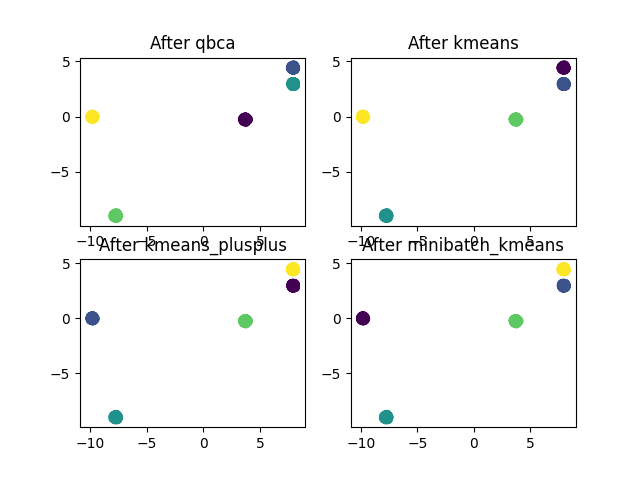
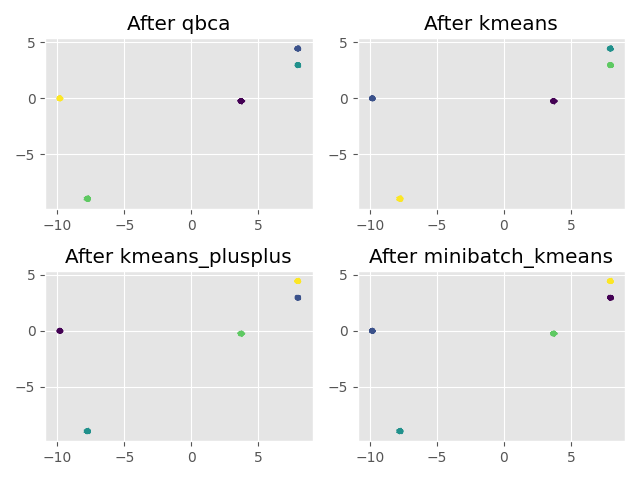
Implement image segmentation test

diff --git a/source/test_utils.py b/source/test_utils.py
@@ -1,11 +1,13 @@
 import os
 import time
 
+import cv2
 import numpy as np
 import pandas as pd
 from matplotlib import pyplot as plt
 from sklearn.cluster import KMeans, MiniBatchKMeans
 from sklearn.datasets import make_blobs
+from sklearn.decomposition import PCA
 from sklearn.metrics import (
     adjusted_mutual_info_score,
     adjusted_rand_score,
@@ -20,9 +22,15 @@ from source.utils import dunn_index
 N_SAMPLES = 10000
 SEED = 2022
 
-fig_dir = "../figures"
+plt.style.use("ggplot")
+
+fig_dir = "figures"
 if not os.path.exists(fig_dir):
     os.mkdir(fig_dir)
+
+out_dir = "out"
+if not os.path.exists(out_dir):
+    os.mkdir(out_dir)
 
 
 def create_gaussian_5():
@@ -35,6 +43,23 @@ def create_gaussian_25():
     return make_blobs(
         n_samples=N_SAMPLES, centers=25, cluster_std=0.02, random_state=SEED
     )
+
+
+def load_image(filename, height=150):
+    data_dir = 'data'
+    image = cv2.imread(os.path.join(data_dir, filename + '.jpg'))
+    image = cv2.cvtColor(image, cv2.COLOR_BGR2RGB)
+    if height:
+        y, x, z = image.shape
+        ratio = height / float(y)
+        dim = (int(x * ratio), height)
+        image = cv2.resize(image, dim, interpolation=cv2.INTER_CUBIC)
+    pixel_values = image.reshape((-1, 3))
+    # y, x, z = image.shape
+    # x_idx, y_idx = np.unravel_index(np.arange(x * y), image.shape[:2])
+    # im2d = image.reshape(x * y, z)
+    # im2d = np.hstack((im2d, x_idx.reshape(-1, 1), y_idx.reshape(-1, 1)))
+    return np.float32(pixel_values), image
 
 
 def initialize_algorithms(k, threshold, max_iter):
@@ -77,11 +102,6 @@ def save_metrics(out_file, metrics):
         "Dunn Index"
     ]
 
-    out_dir = "../out"
-
-    if not os.path.exists(out_dir):
-        os.mkdir(out_dir)
-
     out_file = os.path.join(out_dir, out_file)
     s = metrics[performance_metrics].style
     s.format('{:.4f}')
@@ -97,8 +117,6 @@ def save_metrics(out_file, metrics):
 
 
 def run_test(fig_name, algorithms, data, gs, n_iter=10, verbose=False):
-    metrics = {}
-
     df = pd.DataFrame(
         columns=[
             "Training time",
@@ -142,8 +160,12 @@ def run_test(fig_name, algorithms, data, gs, n_iter=10, verbose=False):
             else:
                 avg_dist_count += algorithm.n_iter_ * data.shape[0]
 
+        # Plot
+        if data.shape[1] > 2:
+            p = PCA(n_components=2)
+            data = p.fit_transform(data)
         idx = np.unravel_index(i, (2, 2))
-        ax[idx].scatter(data[:, 0], data[:, 1], c=labels)
+        ax[idx].scatter(data[:, 0], data[:, 1], s=1, c=labels)
         ax[idx].set_title(f'After {name}')
 
         avg_time /= n_iter
@@ -194,6 +216,86 @@ Internal validation:
         #     "internal": [avg_calinski, avg_davies],
         # }
 
+    fig.tight_layout()
+    fig.savefig(os.path.join(fig_dir, f"{fig_name}.png"))
+
+    return df
+
+
+def run_segmentation(fig_name, algorithms, data, image, verbose=False):
+    df = pd.DataFrame(
+        columns=[
+            "Training time",
+            "#Distance computations",
+            "Calinski-Harabasz Index",
+            "Dunn Index"
+        ]
+    )
+
+    fig, ax = plt.subplots(2, 2)
+
+    for i, (name, algorithm) in enumerate(algorithms.items()):
+        print(f'Start running {name}')
+        start = time.perf_counter()
+        algorithm.fit(data)
+        seconds = time.perf_counter() - start
+        labels = algorithm.predict(data)
+
+        calinski = calinski_harabasz_score(data, labels)
+        dunn = dunn_index(data, labels)
+
+        if hasattr(algorithm, "n_dist_"):
+            dist_count = algorithm.n_dist_
+        else:
+            dist_count = algorithm.n_iter_ * data.shape[0]
+
+        # Plot
+        if hasattr(algorithm, "seeds"):
+            centers = algorithm.seeds
+        else:
+            centers = algorithm.cluster_centers_
+
+        centers = np.uint8(centers)
+        segmented_image = centers[labels.flatten()]
+        segmented_image = segmented_image.reshape(image.shape)
+
+        im = data.copy()
+        idx = np.unravel_index(i, (2, 2))
+        ax[idx].grid(False)
+        ax[idx].imshow(segmented_image)
+        ax[idx].set_title(name)
+
+        if verbose:
+            out_string = f"""{name}
+    Training time: {seconds:.4f} seconds
+
+    Number of distance computations: {dist_count}
+
+    Internal validation:
+        Calinski-Harabasz Index: {calinski:.4f}
+        Dunn Index: {dunn:.4f}
+        """
+            print(out_string)
+
+        aux_df = pd.DataFrame(
+            [[
+                seconds,
+                dist_count,
+                calinski,
+                dunn
+            ]],
+            columns=df.columns,
+            index=[name]
+        )
+        df = pd.concat([df, aux_df])
+        # metrics[name] = {
+        #     "time": avg_time,
+        #     "dist_count": avg_dist_count,
+        #     "external": [avg_ami, avg_ar, avg_fowlkes],
+        #     "internal": [avg_calinski, avg_davies],
+        # }
+
+    fig.tight_layout()
     fig.savefig(os.path.join(fig_dir, f"{fig_name}.png"))
 
     return df

diff --git a/source/run_tests.py b/source/run_tests.py
@@ -1,6 +1,7 @@
-from sklearn.datasets import load_wine
+from sklearn.datasets import load_wine, load_iris
 
-from source.test_utils import create_gaussian_5, create_gaussian_25, run_test, save_metrics, initialize_algorithms
+from source.test_utils import create_gaussian_5, create_gaussian_25, run_test, save_metrics, initialize_algorithms, \
+    load_image, run_segmentation
 
 
 def test_gaussian(algorithms, out_file, option=0, verbose=False):
@@ -19,13 +20,31 @@ def test_gaussian(algorithms, out_file, option=0, verbose=False):
 
 
 def test_wine(algorithms, out_file, verbose=False):
+    print("Test Wine")
     wine = load_wine()
-    metrics = run_test(algorithms, wine.data, wine.target, verbose=verbose)
+    metrics = run_test(out_file, algorithms, wine.data, wine.target, verbose=verbose)
     save_metrics(out_file, metrics)
 
 
-test_gaussian(initialize_algorithms(5, 1e-4, 300), "gaussian_5", option=0, verbose=True)
+def test_iris(algorithms, out_file, verbose=False):
+    print("Test Iris")
+    iris = load_iris()
+    metrics = run_test(out_file, algorithms, iris.data, iris.target, verbose=verbose)
+    save_metrics(out_file, metrics)
 
-test_gaussian(initialize_algorithms(25, 1e-4, 300), "gaussiang_25", option=1, verbose=True)
 
-# test_wine('wine', initialize_algorithms(3, 1e-4, 300), "wine", verbose=True)
+def test_image(algorithms, out_file, verbose=False):
+    print("Test Butterfly image")
+    data, im = load_image('butterfly')
+    metrics = run_segmentation(out_file, algorithms, data, im, verbose=verbose)
+
+
+# test_gaussian(initialize_algorithms(5, 1e-4, 30), "gaussian_5", option=0, verbose=True)
+
+# test_gaussian(initialize_algorithms(25, 1e-4, 30), "gaussian_25", option=1, verbose=True)
+
+# test_wine(initialize_algorithms(3, 1e-4, 30), "wine", verbose=True)
+
+# test_iris(initialize_algorithms(3, 1e-4, 30), "iris", verbose=True)
+
+test_image(initialize_algorithms(5, 1e-2, 50), "butterfly")
